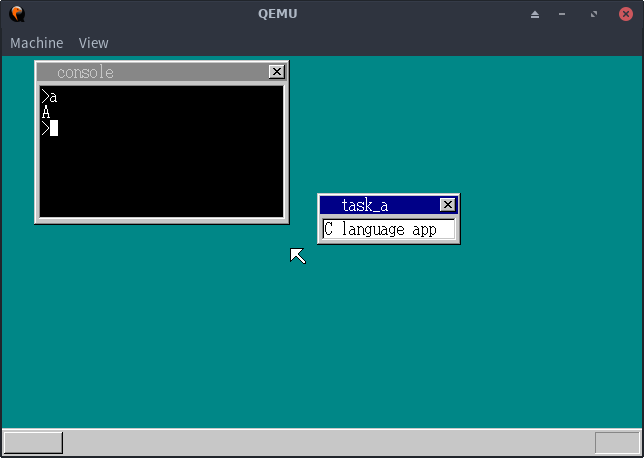
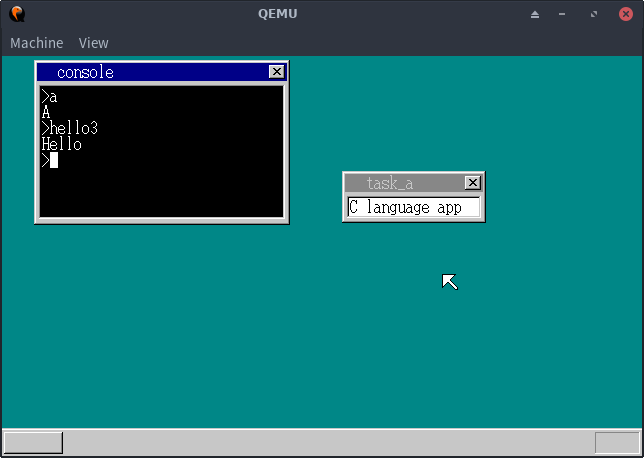
Add a hello3 app in 21b

diff --git a/21_ProtectOS/21b/c_src/console.c b/21_ProtectOS/21b/c_src/console.c
@@ -214,7 +214,7 @@ void cmd_dir(struct CONSOLE *cons) {
     if (finfo[i].name[0] == 0x00) break;
     if (finfo[i].name[0] != 0xe5) {
       if ((finfo[i].type & 0x18) == 0) {
-        my_sprintf(s, "filename.ext   %7d", finfo[i].size);
+        my_sprintf(s, "filename.ext   %7d\n", finfo[i].size);
         for (int j = 0; j < 8; j++) {
           s[j] = finfo[i].name[j];
         }

diff --git a/21_ProtectOS/21b/app/hello3.c b/21_ProtectOS/21b/app/hello3.c
@@ -1,0 +1,10 @@
+void api_putchar(int c);
+
+void HariMain(void) {
+  api_putchar('H');
+  api_putchar('e');
+  api_putchar('l');
+  api_putchar('l');
+  api_putchar('o');
+  return;
+}
